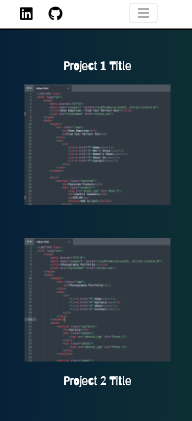
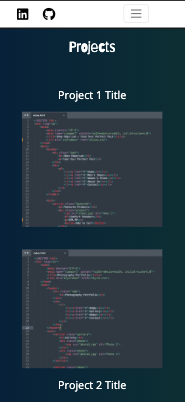
docs:Testing section write-up finished

Changed region(s): [[0.0, 0.0, 1.0, 0.9851], [0.7027, 0.3284, 0.8108, 0.3582]]

diff --git a/index.html b/index.html
@@ -87,9 +87,7 @@
             have any questions, please feel free to contact me.
           </p>
           <!--Contact me button that takes you to the contact section-->
-          <a href="#contact-section">
-            <button id="button">Contact Me</button>
-          </a>
+          <a id="button" href="#contact-section">Contact Me</a>
         </div>
       </div>
     </section>
@@ -97,46 +95,47 @@
       <!--Project gallery with anchored screenshots and project titles-->
       <!--Project gallary pictures will be replaced by code snipets screenshots
       and the anchor tag will take you to a seperate page which is exclusivily about that project-->
+      <h2 id="projects-heading">Projects</h2>
       <div class="row">
         <div class="col-lg-6">
-          <figure>
+          <div class="figure">
             <a target="_blank" href="https://github.com/ReeceSmith14/Project-1">
-              <figcaption>Project 1 Title</figcaption>
+              <p>Project 1 Title</p>
             </a>
             <a target="_blank" href="https://github.com/ReeceSmith14/Project-1"><img class="img-fluid project-img" src="assets/images/project-1.webp"
             alt="picture of my dog in place of a project screenshoot"></a>
-          </figure>
+          </div>
         </div>
         <div class="col-lg-6">
-          <figure>
+          <div class="figure">
             <a target="_blank" href="https://github.com/ReeceSmith14/Project-2"><img class="img-fluid project-img" src="assets/images/project-2.webp"
             alt="picture of my dog in place of a project screenshoot"></a>
             <a target="_blank" href="https://github.com/ReeceSmith14/Project-2">
-              <figcaption>Project 2 Title</figcaption>
+              <p>Project 2 Title</p>
             </a>
-          </figure>
+          </div>
         </div>
       </div>
       <div class="row">
         <div class="col-lg-6">
-          <figure>
+          <div class="figure">
             <a target="_blank" href="https://github.com/ReeceSmith14/Project-3">
-              <figcaption>Project 3 Title</figcaption>
+              <p>Project 3 Title</p>
             </a>
             <a target="_blank" href="https://github.com/ReeceSmith14/Project-3">
               <img class="img-fluid project-img" src="assets/images/project-3.webp"
               alt="picture of my dog in place of a project screenshoot">
             </a>
-          </figure>
+          </div>
         </div>
         <div class="col-lg-6">
-          <figure>
+          <div class="figure">
             <a target="_blank" href="https://github.com/ReeceSmith14/Project-4"><img class="img-fluid project-img" src="assets/images/project-4.webp"
             alt="picture of my dog in place of a project screenshoot"></a>
             <a target="_blank" href="https://github.com/ReeceSmith14/Project-4">
-              <figcaption>Project 4 Title</figcaption>
+              <p>Project 4 Title</p>
             </a>
-          </figure>
+          </div>
         </div>
       </div>
     </section>

diff --git a/assets/css/styles.css b/assets/css/styles.css
@@ -67,20 +67,30 @@ a.nav-link:hover {
 /*About section contact me button styling*/
 #button{
     background-color: #0a2239;
-    color: white;
     border: none;
     padding: 10px 15px;
     margin-bottom: 5px;
     border-radius: 5px;
+    color:white;
+    text-decoration: none;
 }
 #button:hover{
     background-color: white;
-    color:#0a2239 ;
+    color:#0a2239;
     transition: 0.2s;
 }
 /*Project section styling*/
+#projects-heading{
+    color:white;
+    margin-top:0;
+    font-family: "Barriecito", system-ui;
+    font-weight: 400;
+    font-style: normal;
+    font-size:2rem;
+    padding-bottom:40px;
+}
 #projects{
-    padding-top:100px;
+    padding-top:40px;
     padding-bottom:100px;
     background-image: linear-gradient(to right, #0a2239, #132e32);
 }
@@ -96,14 +106,15 @@ img.img-fluid.project-img{
     display:flex;
     justify-content: center;
 }
-#projects a figcaption{
+#projects a p{
     font-size:1.5rem;
     margin:20px;
-    font-family: "Barriecito", system-ui;
+    font-family: "Open Sans", sans-serif;
     font-weight: 400;
     font-style: normal;
+    font-variation-settings: "wdth" 100;
 }
-#projects a figcaption:hover{
+#projects a p:hover{
     color:black;
     transition: 0.3s;
 }
@@ -181,7 +192,7 @@ and project screenshots on tablets and smaller screens */
   #about-img{
     padding-bottom:50px;
   }
-  figure{
+  .figure{
     padding-bottom:50px;
   }
 }

diff --git a/README.md b/README.md
@@ -147,7 +147,7 @@ At every stage of the design the main focus is driving traffic towards the conta
 
 #### Typography
 
-- The navigation bar, about section heading and  project titles all used the display font "Barriecito". As these are the only times this font is being used it will stand out from all other text.
+- The navigation bar, about section heading and  project heading all used the display font "Barriecito". As these are the only times this font is being used it will stand out from all other text.
 - Vast majority of text was written in the sans-serif font "Open Sans". This is a simple clean font that is easy to read.
 
 #### Icons
@@ -173,6 +173,8 @@ At every stage of the design the main focus is driving traffic towards the conta
 ![Image of about me section on smaller screens](https://github.com/ReeceSmith14/Personal-Portfolio-Website/assets/61851890/4d4e9251-f3d4-44ec-9068-1afea619e24f)
 
 ### Projects Section
+
+DOUBLE CHECK THESE IMAGES ARE CORRECT
 
 ![Image of project section](https://github.com/ReeceSmith14/Personal-Portfolio-Website/assets/61851890/433a2219-5a5c-48dd-83c2-d371aad5df2c)
 
@@ -223,7 +225,9 @@ INSERT SCREENSHOT HERE REECE
 
 #### HTML
 
+HTML was validated using [Markup Validation Service](https://validator.w3.org)
 
+INSERT SCREENSHOT HERE
 
 ## Deployment
 
